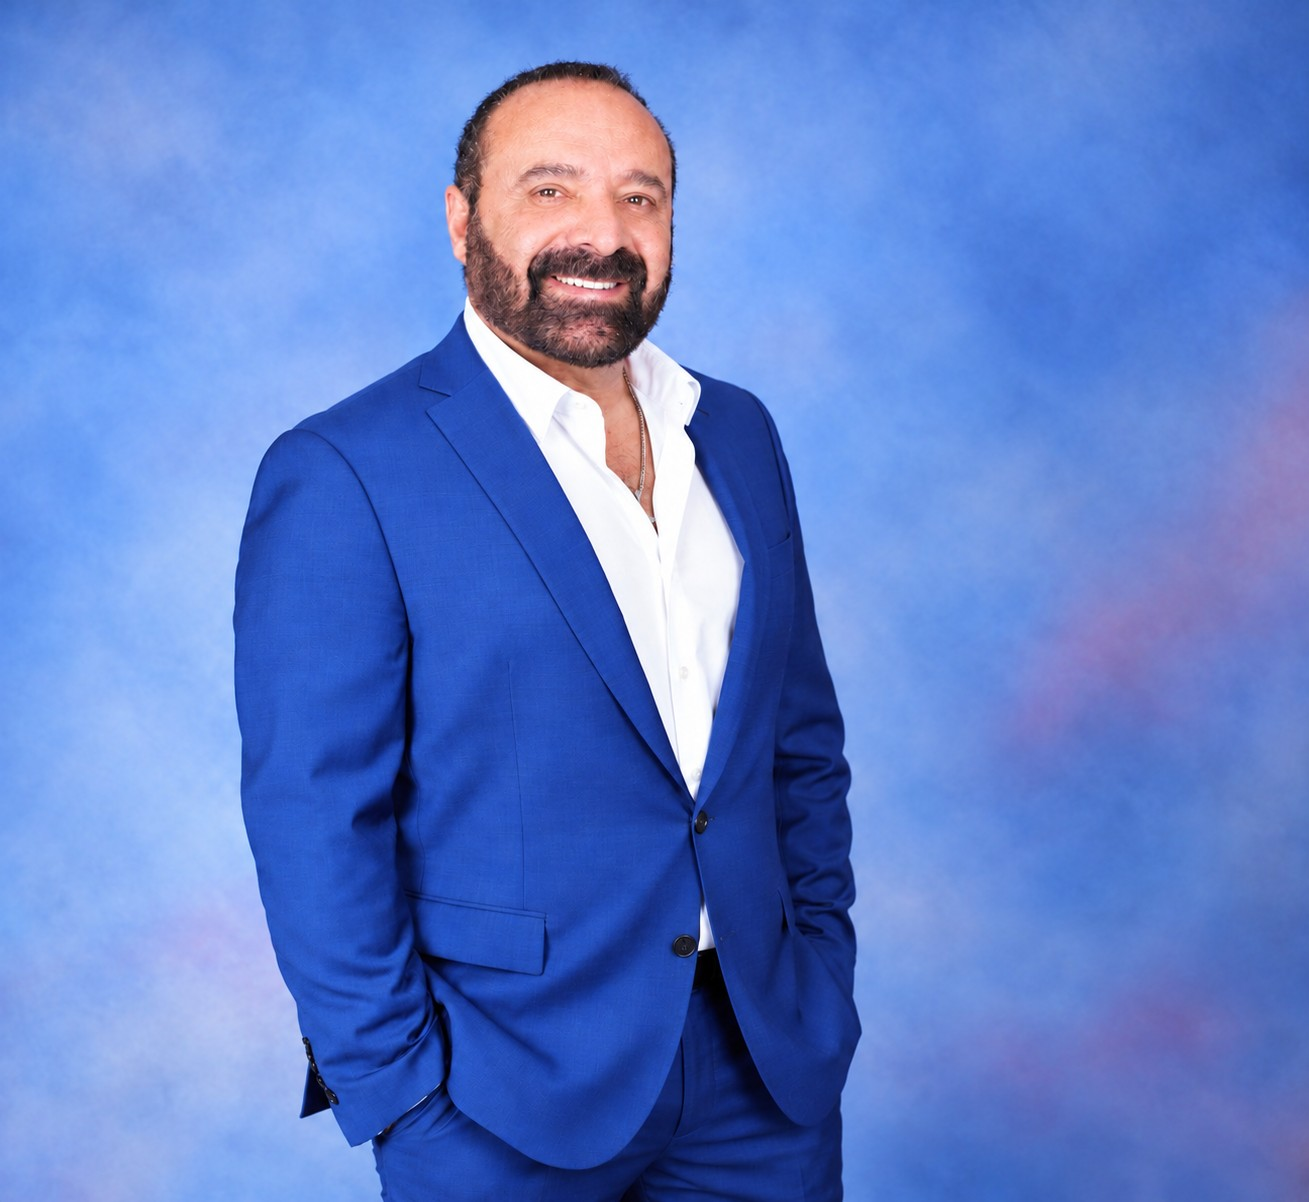
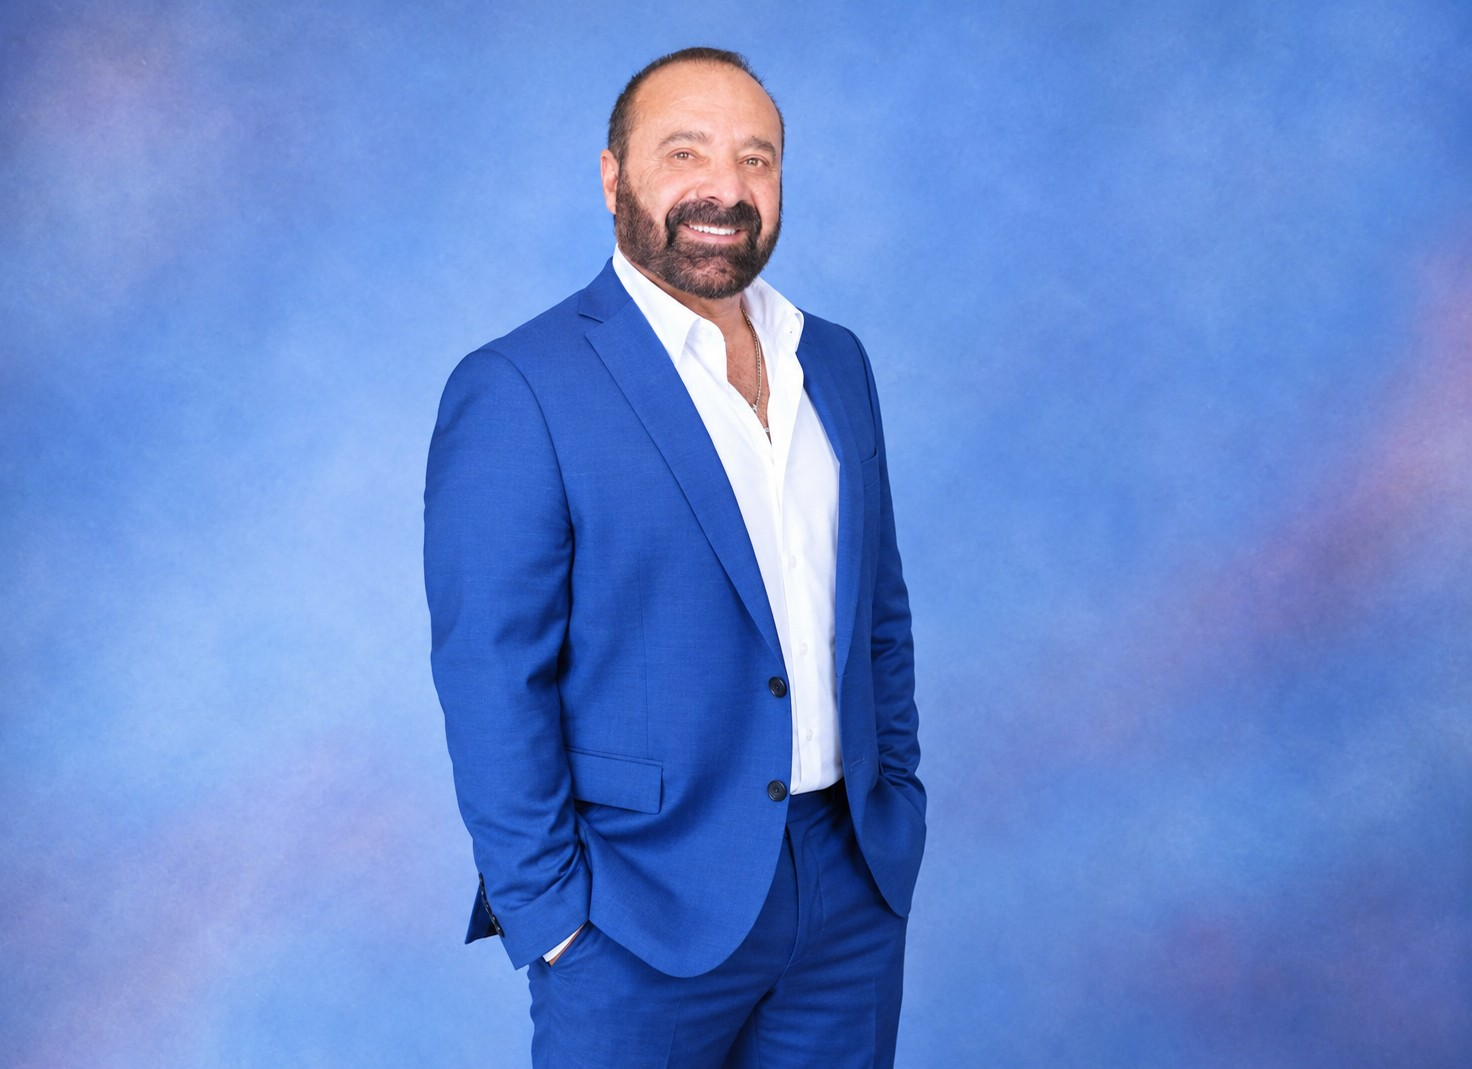
Replace founder portrait on Our Story with the new studio photo
Claude-Session: https://claude.ai/code/session_0121JweBTLe6FsTKw6TgaNtZ

diff --git a/src/content/images.ts b/src/content/images.ts
@@ -175,7 +175,7 @@ export const images = {
     src: founder,
     alt: "Armond Markarian, founder, President and CEO of V & A Flooring Inc",
     kind: "company",
-    focus: "45% 25%",
+    focus: "46% 30%",
   },
   team: {
     src: team,
